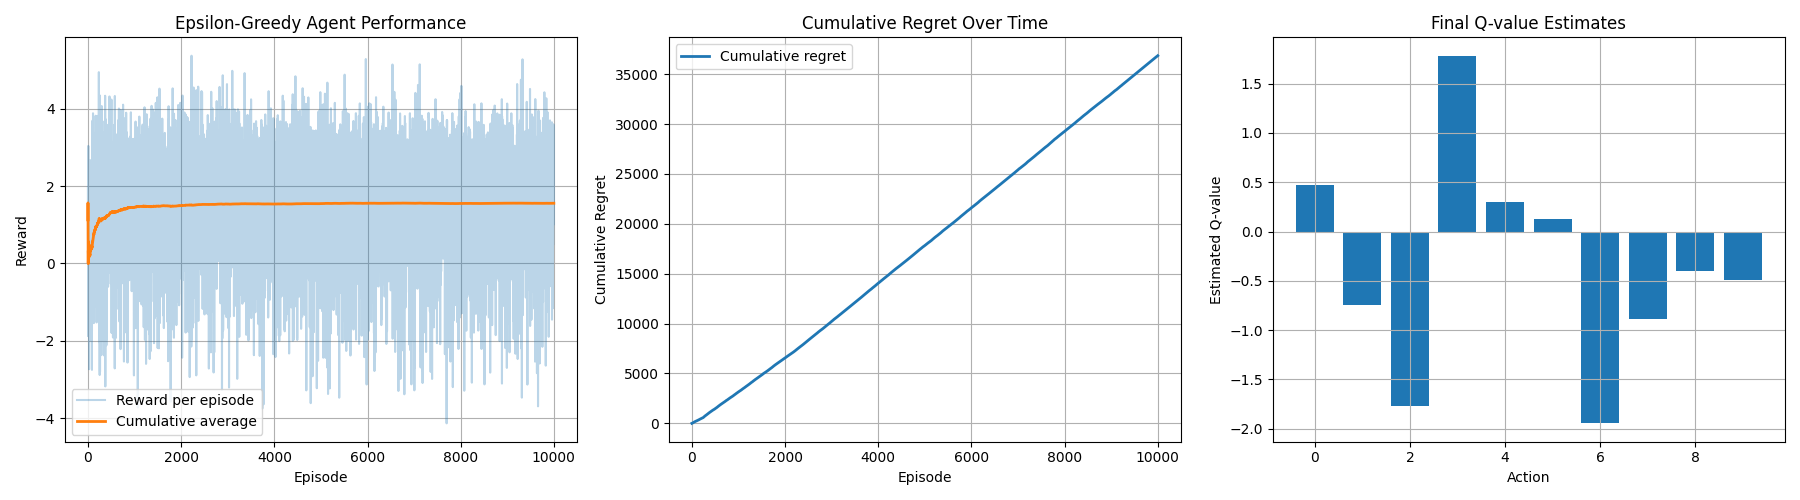
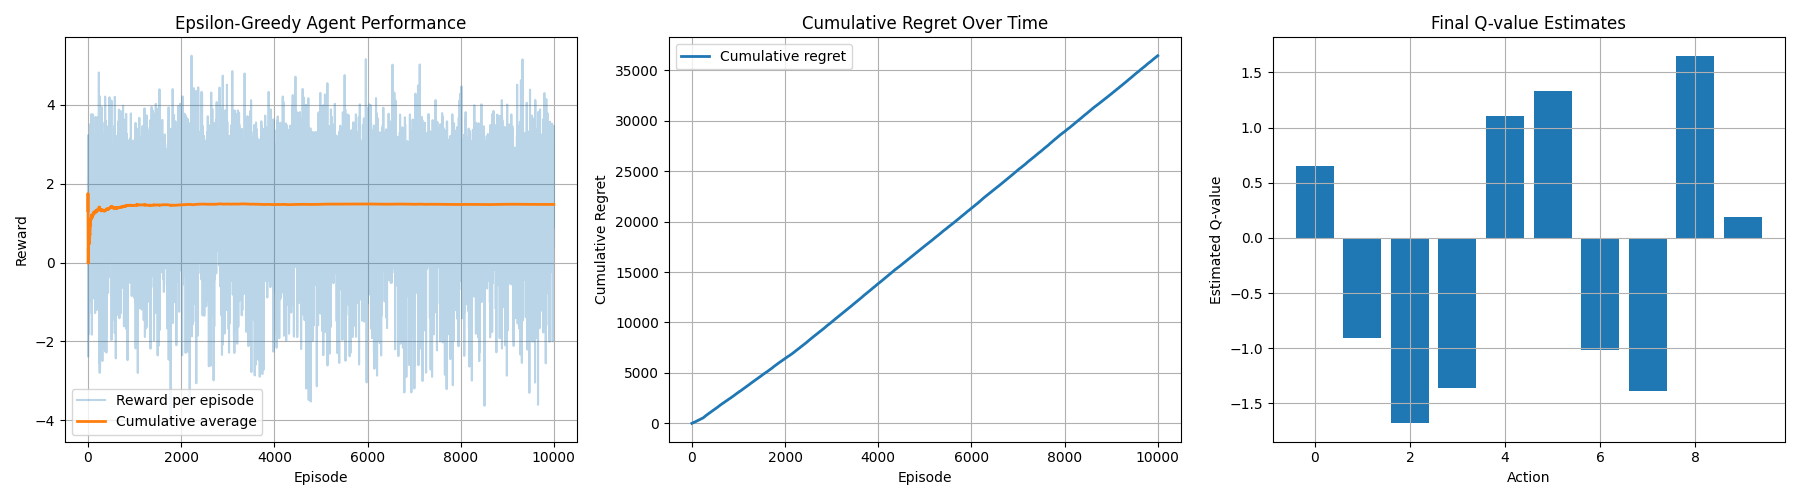
Update binary result images for various agent strategies, including decaying epsilon-greedy, epsilon-greedy, Thompson sampling, and UCB1. Ensure all total regret visualizations are current and reflect the latest training outcomes.

diff --git a/gittins_index.py b/gittins_index.py
@@ -1,0 +1,160 @@
+# so this file gonna contain the implementation of the gittins index for multi-armed bandit problem
+
+# resources:
+# 1. https://youtu.be/Wreegu4E7DY?si=iinpPtayTuvlz75J
+# 2. https://youtu.be/p8AwKiudhZ4?si=6Gn7IM8LIm0dSSug
+# 3. https://www.statslab.cam.ac.uk/~rrw1/oc/ocgittins.pdf
+
+import gym
+import gym_bandits
+import numpy as np
+import matplotlib.pyplot as plt
+from scipy.optimize import root_scalar
+
+class GittinsIndexAgent:
+    def __init__(self, n_actions, discount=0.95, epsilon=0.1, horizon=100):
+      self.n_actions = n_actions
+      self.discount = discount
+      self.epsilon = epsilon
+      self.horizon = horizon
+      self.posteriors = [(1.0, 1.0) for _ in range(n_actions)]
+
+      self.gittins_index = np.zeros(n_actions)
+      self.action_counts = np.zeros(n_actions)
+      self.t = 0
+      self.history = []
+
+    def compute_gittins_index(self, alpha, beta):
+      n_states = self.horizon + 1
+
+      def value_function(gamma):
+        V = np.zeros(self.horizon + 1)
+        for h in range(self.horizon-1, -1, -1):
+          mu = alpha / (alpha + beta)
+          exp_V = (alpha / (alpha + beta)) * V[h+1] + (beta / (alpha + beta)) * V[h+1]
+          continuation = mu - gamma + self.discount * exp_V
+          V[h] = max(0.0, continuation)
+        return V[0]
+
+      try:
+        result = root_scalar(value_function, bracket=[0.0, 1.0])
+        return result.root if result.converged else alpha / (alpha + beta)
+      except Exception as e:
+        print(f"Error computing Gittins index: {e}")
+        return alpha / (alpha + beta)
+
+    def select_action(self):
+      self.t += 1
+      if self.t <= self.n_actions:
+        return self.t - 1
+
+      if np.random.rand() < self.epsilon:
+        return np.random.randint(self.n_actions)
+      else:
+        return np.argmax(self.gittins_index)
+
+    def update_estimates(self, action, reward):
+      # store history for histogram visualization
+      self.history.append((action, reward))
+      alpha, beta = self.posteriors[action]
+      if reward == 1:
+        alpha += 1
+      else:
+        beta += 1
+      self.posteriors[action] = (alpha, beta)
+      self.gittins_index[action] = self.compute_gittins_index(alpha, beta)
+      self.action_counts[action] += 1
+
+def train_gittins_index_agent(env_name='BanditTenArmedGaussian-v0', n_episodes=1000):
+  env = gym.make(env_name)
+  n_actions = env.action_space.n
+  agent = GittinsIndexAgent(n_actions)
+
+  rewards = []
+  cumulative_avg_rewards = []
+  regrets = []
+  cumulative_regret = []
+
+  env.reset()
+  np.random.seed(42)
+
+  true_means = env.means if hasattr(env, 'means') else None
+  if true_means is None:
+      # try alternative attribute names
+      true_means = getattr(env, 'mu', None)
+  if true_means is None:
+      # if we can't get true means, we'll estimate optimal reward from observed rewards
+      # this is a fallback - we'd have access to true means ideally
+      print("Warning: Could not access true mean rewards. Regret will be estimated.")
+      true_means = None
+
+
+  optimal_reward = np.max(true_means) if true_means is not None else None
+
+  for episode in range(n_episodes):
+    action = agent.select_action()
+    reward = env.step(action)[1]
+    agent.update_estimates(action, reward)
+
+    rewards.append(reward)
+    cumulative_avg = np.mean(rewards)
+    cumulative_avg_rewards.append(cumulative_avg)
+
+    # calculate regret
+    if optimal_reward is not None:
+      regret = optimal_reward - reward
+    else:
+      # fallback: use best observed reward as proxy for optimal
+      regret = np.max(rewards) - reward if rewards else 0
+    regrets.append(regret)
+    cumulative_regret.append(np.sum(regrets))
+
+  plt.figure(figsize=(18, 5))
+
+  plt.subplot(1, 3, 1)
+  plt.plot(rewards, alpha=0.3, label='Reward per episode')
+  plt.plot(cumulative_avg_rewards, label='Cumulative average', linewidth=2)
+  if optimal_reward is not None:
+    plt.axhline(optimal_reward, 'r--', label='Optimal reward', linewidth=2)
+  plt.xlabel('Episode')
+  plt.ylabel('Reward')
+  plt.title('Gittins Index Agent Performance')
+  plt.legend()
+  plt.grid(True)
+
+  plt.subplot(1, 3, 2)
+  plt.plot(cumulative_regret, label='Cumulative regret', linewidth=2)
+  plt.xlabel('Episode')
+  plt.ylabel('Cumulative Regret')
+  plt.title('Cumulative Regret Over Time')
+  plt.legend()
+  plt.grid(True)
+
+  plt.subplot(1, 3, 3)
+  plt.hist([action for action, _ in agent.history], bins=n_actions, alpha=0.5)
+  plt.xlabel('Action')
+  plt.ylabel('Frequency')
+  plt.title('Action Histogram')
+  plt.grid(True)
+
+  plt.tight_layout()
+  plt.savefig('gittins_index_agent_results.png')
+  # plt.show()
+
+  plt.figure(figsize=(10, 6))
+  time_steps = range(len(cumulative_regret))
+  plt.plot(time_steps, cumulative_regret, linewidth=2, label='Total Regret')
+  plt.xlabel('Time-steps')
+  plt.ylabel('Total Regret')
+  plt.title('Total Regret vs Time-steps - Gittins Index Agent')
+  plt.legend()
+  plt.grid(True)
+  plt.tight_layout()
+  plt.savefig('results/gittins_index_total_regret.png')
+  plt.close()
+
+  return agent, cumulative_regret[-1] if cumulative_regret else 0
+
+if __name__ == "__main__":
+  agent, final_regret = train_gittins_index_agent(n_episodes=10000)
+  print(f"Final regret: {final_regret}")
